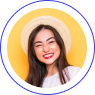
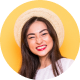
Update testi

diff --git a/pages/index.vue b/pages/index.vue
@@ -4,7 +4,7 @@
       <div class="header__bg"></div>
       <div class="container mx-auto relative">
         <header class="flex items-center">
-          <div style="height: 54px;" class="pr-5">
+          <div style="height: 54px" class="pr-5">
             <img src="/logo.svg" alt="logo" class="h-full" />
           </div>
           <ul class="flex items-center">
@@ -170,7 +170,7 @@
                   class="overflow-hidden h-2 mb-4 text-xs flex rounded bg-gray-200 h-3 rounded-lg"
                 >
                   <div
-                    style="width: 20%;"
+                    style="width: 20%"
                     class="shadow-none flex flex-col text-center whitespace-nowrap text-white justify-center bg-purple-progress progress-striped"
                   ></div>
                 </div>
@@ -211,7 +211,7 @@
                   class="overflow-hidden h-2 mb-4 text-xs flex rounded bg-gray-200 h-3 rounded-lg"
                 >
                   <div
-                    style="width: 45%;"
+                    style="width: 45%"
                     class="shadow-none flex flex-col text-center whitespace-nowrap text-white justify-center bg-purple-progress progress-striped"
                   ></div>
                 </div>
@@ -250,7 +250,7 @@
                   class="overflow-hidden h-2 mb-4 text-xs flex rounded bg-gray-200 h-3 rounded-lg"
                 >
                   <div
-                    style="width: 80%;"
+                    style="width: 80%"
                     class="shadow-none flex flex-col text-center whitespace-nowrap text-white justify-center bg-purple-progress progress-striped"
                   ></div>
                 </div>
@@ -293,7 +293,7 @@
                   class="overflow-hidden h-2 mb-4 text-xs flex rounded bg-gray-200 h-3 rounded-lg"
                 >
                   <div
-                    style="width: 45%;"
+                    style="width: 45%"
                     class="shadow-none flex flex-col text-center whitespace-nowrap text-white justify-center bg-purple-progress progress-striped"
                   ></div>
                 </div>
@@ -334,7 +334,7 @@
                   class="overflow-hidden h-2 mb-4 text-xs flex rounded bg-gray-200 h-3 rounded-lg"
                 >
                   <div
-                    style="width: 70%;"
+                    style="width: 70%"
                     class="shadow-none flex flex-col text-center whitespace-nowrap text-white justify-center bg-purple-progress progress-striped"
                   ></div>
                 </div>
@@ -375,7 +375,7 @@
                   class="overflow-hidden h-2 mb-4 text-xs flex rounded bg-gray-200 h-3 rounded-lg"
                 >
                   <div
-                    style="width: 10%;"
+                    style="width: 10%"
                     class="shadow-none flex flex-col text-center whitespace-nowrap text-white justify-center bg-purple-progress progress-striped"
                   ></div>
                 </div>
@@ -423,17 +423,17 @@
             <img
               src="/testimonial-1-icon.png"
               alt=""
-              class="w-20 mr-5 inline-block"
+              class="w-20 mr-5 inline-block testimonial-user rounded-full"
             />
             <img
               src="/testimonial-2-icon.png"
               alt=""
-              class="w-20 mr-5 inline-block"
+              class="w-20 mr-5 inline-block testimonial-user rounded-full"
             />
             <img
               src="/testimonial-3-icon.png"
               alt=""
-              class="w-20 mr-5 inline-block"
+              class="w-20 mr-5 inline-block testimonial-user active rounded-full"
             />
           </div>
         </div>
@@ -546,30 +546,31 @@ export default {}
 
 .card-project {
   transition: all 0.3s ease 0s, opacity 0.5s cubic-bezier(0.5, 0, 0, 1) 1ms;
-  &:hover {
-    box-shadow: 0 4px 25px 0 rgba(0, 0, 0, 0.15);
-  }
   max-height: 445px;
   overflow: hidden;
-}
 
-.card-project .button-cta {
-  opacity: 0;
-  transition: all 300ms ease;
-}
+  .button-cta {
+    opacity: 0;
+    transition: all 300ms ease;
+  }
 
-.card-project:hover .button-cta {
-  opacity: 1;
-  transition: all 300ms ease;
-}
+  &:hover {
+    box-shadow: 0 4px 25px 0 rgba(0, 0, 0, 0.15);
 
-.card-project:hover .progress-bar,
-.card-project:hover .progress-info {
-  opacity: 0;
-  height: 0px;
-  margin: 0px;
-  padding: 0px;
-  transition: all 300ms ease;
+    .button-cta {
+      opacity: 1;
+      transition: all 300ms ease;
+    }
+
+    .progress-bar,
+    .progress-info {
+      opacity: 0;
+      height: 0px;
+      margin: 0px;
+      padding: 0px;
+      transition: all 300ms ease;
+    }
+  }
 }
 
 footer {
@@ -578,5 +579,14 @@ footer {
 
 .hero-underline {
   text-decoration-color: #1abc9c;
+}
+
+.testimonial-user {
+  opacity: 0.4;
+  &.active {
+    opacity: 1;
+    border: 5px solid #fff;
+    box-shadow: 0 0 0 1px #3b41e3;
+  }
 }
 </style>
